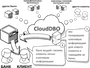
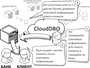
Добавлены страницы "Как это работает. UI/UX", "Как это работает. SaaS".

diff --git a/WebContent/features_bank.html b/WebContent/features_bank.html
@@ -66,15 +66,15 @@
       <!-- Feature Wrapper -->
       <div class="feature_wrapper option2">
         <div class="section_header">
-        <h3>CloudDBO для банков</h3>
+          <h3>CloudDBO для банков</h3>
         </div>
 
         <div class="row subtitle">
-        <h2>
-          Менее 10% клиентов пользуются интернет-банкингом.
-          <br>Остальные стоят в очередях в отделениях и у банкоматов.
-          <br>Как увеличить долю интернет-транзакций?
-        </h2>
+          <h2>
+            Менее 10% клиентов пользуются интернет-банкингом.
+            <br>Остальные стоят в очередях в отделениях и у банкоматов.
+            <br>Как увеличить долю интернет-транзакций?
+          </h2>
         </div>
 
         <!-- Features Row -->
@@ -112,7 +112,7 @@
         </div>
 
         <!-- Features Row -->
-        <div class="row last">
+        <div class="row">
           <!-- Feature -->
           <div class="col-sm-6 feature">
             <div class="box">
@@ -143,6 +143,10 @@
             </div>
           </div>
         </div>
+
+        <div class="row last text-center">
+          <img src="img/features-bank.png">
+        </div>
       </div>
 
       <!-- Feature Wrapper -->
@@ -165,6 +169,7 @@
                   Управление средствами авторизации пользователей, криптографическая защита информации,
                   обеспечение целостности и неизменяемости документов, направляемых клиентом в банк.
                 </p>
+                <p><a href="inside-security.html">Подробнее...</a></p>
               </div>
             </div>
           </div>
@@ -180,6 +185,7 @@
                   Интерфейс пользователя в социальных сетях и на мобильных устройствах,
                   простй доступ к сложным финансовым услугам, обеспечение социализации финансов.   
                 </p>
+                <p><a href="inside-uiux.html">Подробнее...</a></p>
               </div>
             </div>
           </div>
@@ -189,13 +195,14 @@
             <div class="img">
               <img src="img/features-ico7.png" />
             </div>
-            <div class="text">
-              <h6>SaaS</h6>
-              <p>
-                Аутсорсинг программного обеспечения и оборудования, размещение в надёжных датацентрах,
-                технологическое взаимодействие с агрегаторами платежей и другими контрагентами.  
-              </p>
-            </div>
+              <div class="text">
+                <h6>SaaS</h6>
+                <p>
+                  Аутсорсинг программного обеспечения и оборудования, размещение в надёжных датацентрах,
+                  технологическое взаимодействие с агрегаторами платежей и другими контрагентами.  
+                </p>
+                <p><a href="inside-saas.html">Подробнее...</a></p>
+              </div>
             </div>
           </div>
         </div>
@@ -253,7 +260,15 @@
           </div>
         </div>
       </div>
-      
+<!-- 
+      <div class="feature_wrapper option2">
+        <div class="row subtitle">
+          <h2>
+            Менее 10% клиентов пользуются интернет-банкингом.
+          </h2>
+        </div>
+      </div>
+-->      
     </div>
   </div>
 

diff --git a/WebContent/inside-uiux.html b/WebContent/inside-uiux.html
@@ -1,7 +1,7 @@
 <!DOCTYPE html>
 <html>
 <head>
-  <title>CloudDBO - как это работает. Безопасность.</title>
+  <title>CloudDBO - как это работает. UI/UX</title>
   <meta http-equiv="Content-Type" content="text/html; charset=utf-8" />
   <meta name="viewport" content="width=device-width, initial-scale=1.0" />
 	
@@ -71,32 +71,18 @@
       <div class="row">
         <div class="col-sm-7 left_box">
           <div class="big">
-            <img src="img/security-tools.png" class="img-responsive">
-            <img src="img/security-enroll.png" class="img-responsive">
-            <img src="img/security-authorize1.png" class="img-responsive">
-            <img src="img/security-authorize2.png" class="img-responsive">
+            <img src="img/uiux-multifrontend.png" class="img-responsive">
+            <img src="img/uiux-social.png" class="img-responsive">
           </div>
           <div class="thumbs">
             <div class="thumb">
-              <img src="img/security-tools-thumb.png">
+              <img src="img/uiux-multifrontend-thumb.png">
               <a href="#" class="mask">
                 <div class="more">+</div>
               </a>
             </div>
             <div class="thumb">
-              <img src="img/security-enroll-thumb.png">
-              <a href="#" class="mask">
-                <div class="more">+</div>
-              </a>
-            </div>
-            <div class="thumb">
-              <img src="img/security-authorize1-thumb.png">
-              <a href="#" class="mask">
-                <div class="more">+</div>
-              </a>
-            </div>
-            <div class="thumb">
-              <img src="img/security-authorize2-thumb.png">
+              <img src="img/uiux-social-thumb.png">
               <a href="#" class="mask">
                 <div class="more">+</div>
               </a>
@@ -105,7 +91,7 @@
         </div>
 
         <div class="col-sm-5 right_box">
-          <h2>Безопасность</h2>
+          <h2>Интерфейс пользователя</h2>
           <p>
             There are many variations of passages of Lorem Ipsum available, but the majority have suffered alteration in some form, by injected ones humour, or these random words which don’t look even slightly for believable.</p>
 

diff --git a/WebContent/inside-saas.html b/WebContent/inside-saas.html
@@ -1,7 +1,7 @@
 <!DOCTYPE html>
 <html>
 <head>
-  <title>CloudDBO - как это работает. Безопасность.</title>
+  <title>CloudDBO - как это работает. SaaS.</title>
   <meta http-equiv="Content-Type" content="text/html; charset=utf-8" />
   <meta name="viewport" content="width=device-width, initial-scale=1.0" />
 	
@@ -71,32 +71,18 @@
       <div class="row">
         <div class="col-sm-7 left_box">
           <div class="big">
-            <img src="img/security-tools.png" class="img-responsive">
-            <img src="img/security-enroll.png" class="img-responsive">
-            <img src="img/security-authorize1.png" class="img-responsive">
-            <img src="img/security-authorize2.png" class="img-responsive">
+            <img src="img/saas-infrastructure.png" class="img-responsive">
+            <img src="img/saas-payments.png" class="img-responsive">
           </div>
           <div class="thumbs">
             <div class="thumb">
-              <img src="img/security-tools-thumb.png">
+              <img src="img/saas-infrastructure-thumb.png">
               <a href="#" class="mask">
                 <div class="more">+</div>
               </a>
             </div>
             <div class="thumb">
-              <img src="img/security-enroll-thumb.png">
-              <a href="#" class="mask">
-                <div class="more">+</div>
-              </a>
-            </div>
-            <div class="thumb">
-              <img src="img/security-authorize1-thumb.png">
-              <a href="#" class="mask">
-                <div class="more">+</div>
-              </a>
-            </div>
-            <div class="thumb">
-              <img src="img/security-authorize2-thumb.png">
+              <img src="img/saas-payments-thumb.png">
               <a href="#" class="mask">
                 <div class="more">+</div>
               </a>
@@ -105,7 +91,7 @@
         </div>
 
         <div class="col-sm-5 right_box">
-          <h2>Безопасность</h2>
+          <h2>Software as a Service</h2>
           <p>
             There are many variations of passages of Lorem Ipsum available, but the majority have suffered alteration in some form, by injected ones humour, or these random words which don’t look even slightly for believable.</p>
 
